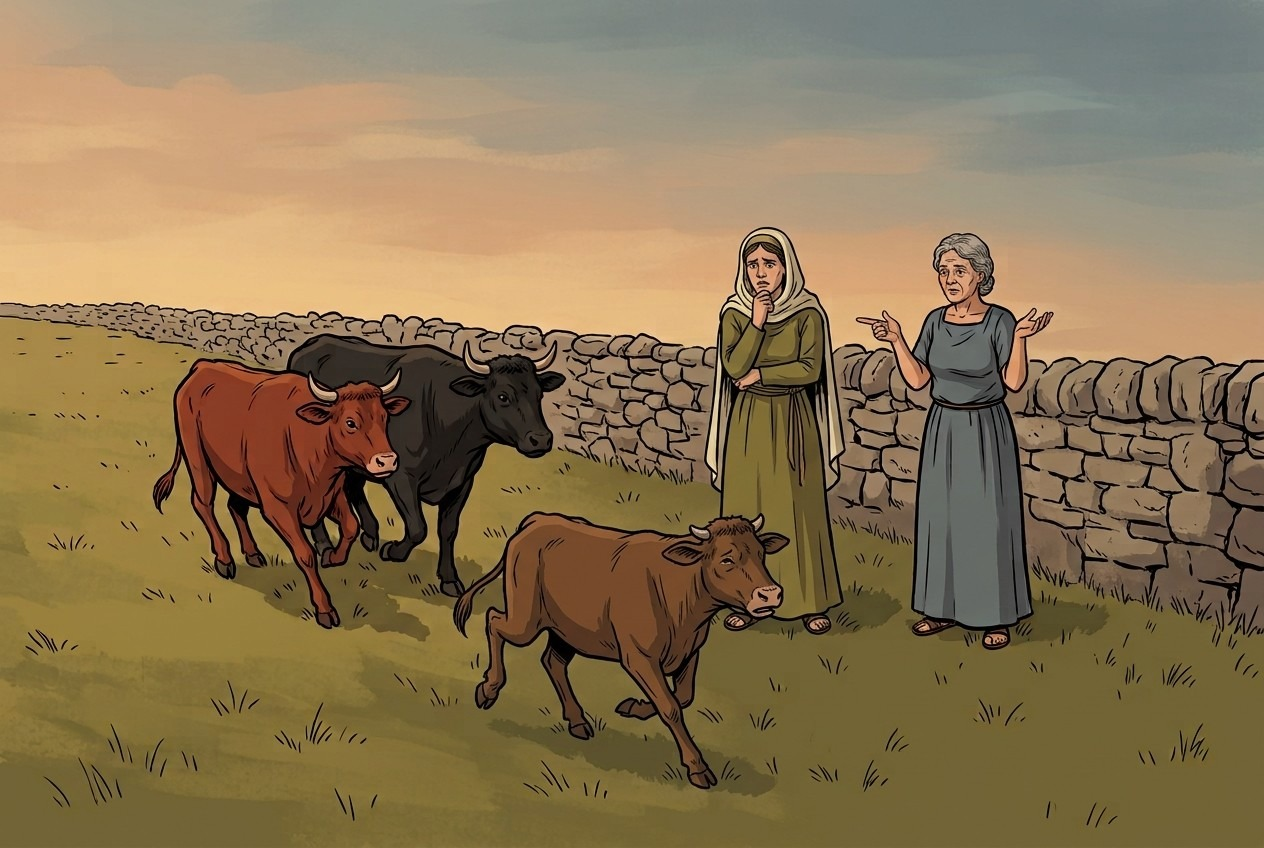
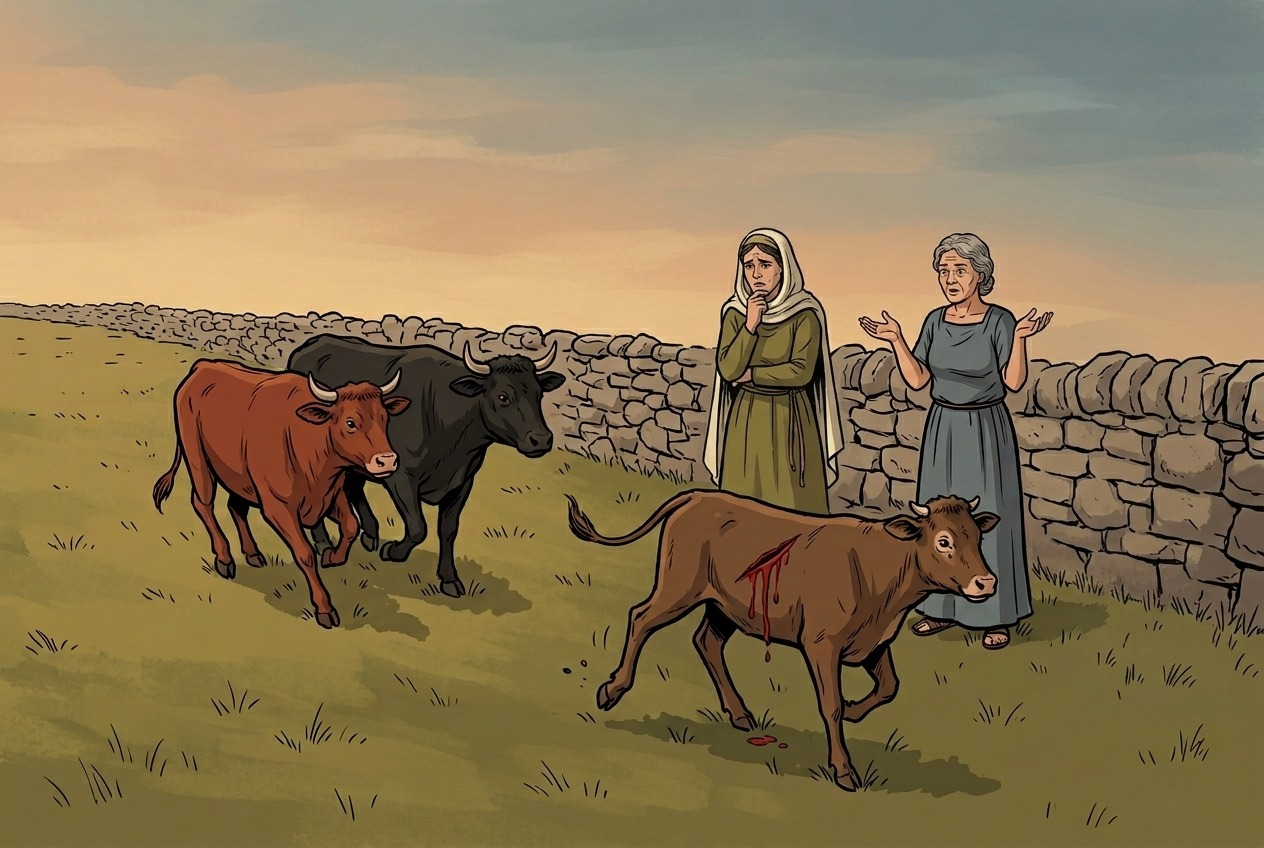
BK 3:11a/b replaced with the gored-ox pictures

Changed region(s): [[0.3394, 0.2453, 0.8022, 0.9505], [0.8022, 0.3679, 0.9565, 0.7358], [0.7405, 0.2759, 0.8022, 0.3679]]

diff --git a/AnyMishnahWeb/site/bava-kamma-3.html b/AnyMishnahWeb/site/bava-kamma-3.html
@@ -107,7 +107,7 @@ html[data-mode=q] .hot{border-color:transparent;background:none;pointer-events:n
 <div class="grid"><div class="panel aids"><h4>Five pairs</h4><ul><li>Embarrassment: his ox caused it, he is exempt; he caused it himself, he is obligated.</li><li>A slave&#x27;s eye or tooth: his ox put it out, he is exempt from freeing the slave; he did it himself, he must free him.</li><li>His father or mother: his ox injured them, he is obligated; he injured them himself, he is exempt.</li><li>A heap of produce on Shabbat: his ox lit it, he is obligated; he lit it himself, he is exempt, because he is liable for his life.</li></ul><h4>Why</h4><ul><li>An ox does not know that it might embarrass someone, so its owner does not pay the embarrassment payment.</li><li>Freeing a slave applies only when the owner himself does the act (Exodus 21:26-27); nor does he owe money, since the slave is his property.</li><li>One who strikes a parent faces the death penalty; a person liable for death and for money receives only the death penalty. Lighting a fire on Shabbat is likewise a capital crime.</li><li>The mishnah is formulaic so that it can be memorised: it is oral Torah.</li></ul><div class="chart"><h4>If his ox did it, and if he did it himself</h4><table><tr><th>The act</th><th>If his ox did it</th><th>If he did it himself</th></tr><tr><td>Embarrassment</td><td>exempt</td><td>obligated</td></tr><tr><td>A slave&#x27;s eye or tooth</td><td>exempt from freeing him</td><td>must free him</td></tr><tr><td>Injury to his father or mother</td><td>obligated</td><td>exempt</td></tr><tr><td>A heap of produce lit on Shabbat</td><td>obligated</td><td>exempt (liable for his life)</td></tr></table></div></div>
 <div class="panel text"><div class="he" lang="he" dir="rtl">יש חייב על מעשה שורו ופטור על מעשה עצמו. פטור על מעשה שורו וחייב על מעשה עצמו. שורו שבייש פטור והוא שבייש חייב. שורו שסימא את עין עבדו והפיל את שינו פטור. והוא שסימא את עין עבדו והפיל את שינו חייב. שורו שחבל באביו ואמו חייב. והוא שחבל באביו ואמו פטור. שורו שהדליק את הגדיש בשבת חייב. והוא שהדליק את הגדיש בשבת פטור. מפני שהוא מתחייב בנפשו: </div><div class="en">There is one who is obligated for the act of his ox and exempt from his own act, and one who is exempt from the act of his ox and obligated on his own act. [If] his ox caused embarrassment [to another person], he is exempt; [If, however] he caused embarrassment [to another person] he is obligated. [If] his ox put out the eye of his slave or knocked out his [slave’s] tooth, he is exempt [from freeing the slave]; [If, however] he put out the eye of his slave or knocked out his tooth, he is obligated to free the slave. [If] his ox injured his father or mother he is obligated; [If, however] he injured his father or mother he is exempt. [If] his ox lit a heap of produce on fire on Shabbat, he is obligated; [If, however] he lit a heap of produce on Shabbat he is exempt, because he is liable for his life.</div></div></div></section><section id="m11"><h2>Mishnah 11: Who has to prove it?</h2><p class="sum">The one who wants payment must bring the proof. If he cannot, the other is exempt.</p>
 <div class="grid"><div class="panel aids"><h4>One ox pursuing another</h4><ul><li>If an ox was pursuing another ox and it was injured, and one says your ox caused it and the other says a rock did: on the one who wishes to exact compensation lies the burden of proof.</li><li>Without proof he cannot collect.</li></ul><h4>Two oxen pursuing a third</h4><ul><li>Two oxen were pursuing a third and each owner says the other&#x27;s ox did it: both are exempt. If both were owned by one man, both are obligated.</li><li>It is clear that one of them caused it but not which, so the owner of the injured ox cannot collect from either; the one owner is liable.</li></ul><h4>Big and small, harmless and dangerous</h4><ul><li>If one was big and one small, or one harmless and one an attested danger, and the owners dispute which caused the injury: on the one who wishes to exact compensation lies the burden of proof.</li><li>The claimant gains by a larger or more dangerous ox having done it: a harmless ox pays no more than its own value, and an attested danger pays full damages.</li></ul><h4>Two injured, two injuring</h4><ul><li>The same rule applies when two oxen were injured by two oxen: the burden of proof is on the plaintiff.</li></ul><h4>The principle</h4><ul><li>The final mishnah teaches an important principle: the burden of proof is on the one who wishes to exact compensation; without positive proof the defendant is found exempt.</li></ul></div>
-<div class="panel text"><div class="he" lang="he" dir="rtl">שור שהיה רודף אחר שור אחר והוזק. זה אומר שורך הזיק. וזה אומר לא כי אלא בסלע לקה. המוציא מחבירו עליו הראיה. היו שנים רודפים אחר אחד. זה אומר שורך הזיק וזה אומר שורך הזיק שניהם פטורין. אם היו שניהן של איש אחד שניהן חייבים. היה אחד גדול ואחד קטן. הניזק אומר גדול הזיק. והמזיק אומר לא כי אלא קטן הזיק. אחד תם ואחד מועד. הניזק אומר מועד הזיק. והמזיק אומר לא כי אלא תם הזיק. המוציא מחברו עליו הראיה. היו הניזוקין שנים אחד גדול ואחד קטן. והמזיקים שנים אחד גדול ואחד קטן. הניזק אומר גדול הזיק את הגדול וקטן את הקטן. ומזיק אומר לא כי אלא קטן את הגדול וגדול את הקטן. אחד תם ואחד מועד. הניזק אומר מועד הזיק את הגדול ותם את הקטן. והמזיק אומר לא כי אלא תם את הגדול ומועד את הקטן. המוציא מחברו עליו הראיה: </div><div class="en">If an ox was pursuing another ox and [the latter ox] was injured: this one claims “Your ox caused the injury, and this one claims “No, it was injured by a rock.” on the one who wishes to exact compensation lies the burden of proof. If two oxen were pursuing a third ox: this one claims “Your ox caused the injury”, and this one claims “Your ox caused the injury”, they are both exempt. However, if they were both owned by one man, they are both obligated. If one was big and was small: the [owner] of injured [ox] says that “The large one caused the injury”, and the [owner] of the injuring [ox] says, “The small one caused the injury”, [or] if one was a harmless ox and one was an attested danger (muad) the [owner] of the injured ox says, “The [ox which is an] attested danger caused the injury, and the owner of the injuring ox says, “The [ox which is] harmless caused the injury”, on the one who wishes to exact compensation lies the burden of proof. If two oxen were injured, one big and one small, and two oxen caused the injury, one big and one small: [the owner] of the injured oxen says, “The big ox injured the big ox and small ox injured the small ox,” and the [owner] of the injuring oxen says, “The small ox injured the big ox and the big ox injured the small ox”; [or] if one was harmless and one was an attested danger: the [owner] of the injured oxen says, “The [ox which is an] attested danger injured the big ox, and the harmless [ox] injured the small ox”, the owner of injuring oxen says, “No rather the harmless [ox] injured the large ox and the [ox which is an] attested danger injured the small ox”, on the one who wishes to exact compensation lies the burden of proof.</div><figure class="pic v" data-aud="y" data-mode="i"><div class="stage"><img src="img/older/clean/bk3-11a.jpg" alt="Two oxen chased a third and it was hurt, and no one knows which one did it: the owners of the chasing oxen are both exempt." loading="lazy"><button class="hot" data-h="0" data-ans="notpay" data-q="1" aria-pressed="false" aria-label="The owner of the red ox" style="left:56.804%;top:24.882%;width:8.070%;height:29.127%"></button><button class="hot" data-h="1" data-ans="notpay" data-q="2" aria-pressed="false" aria-label="The owner of the black ox" style="left:81.646%;top:24.646%;width:9.256%;height:53.302%"></button><img class="ov" data-h="0" src="img/tag-notpay.png" alt="" style="left:60.839%;top:25.118%;width:8.228%;--t:translate(-50%,-100%)"><img class="ov" data-h="1" src="img/tag-notpay.png" alt="" style="left:86.274%;top:24.882%;width:8.228%;--t:translate(-50%,-100%)"><span class="qchip" data-h="0" style="left:56.804%;top:24.882%">1</span><span class="qchip" data-h="1" style="left:81.646%;top:24.646%">2</span></div><div class="qask qonly"><span class="qa"><b>1</b> Two oxen chased a third and it was hurt; no one knows which did it. Does the owner of the red ox pay?</span> <span class="qa"><b>2</b> Does the owner of the black ox pay?</span></div><div class="tray qonly" role="group" aria-label="Badges"><button class="tb" type="button" data-k="pay" aria-label="pays" title="pays"><img src="img/badge-pay.png" alt="" draggable="false"></button><button class="tb" type="button" data-k="notpay" aria-label="does not pay" title="does not pay"><img src="img/badge-notpay.png" alt="" draggable="false"></button><button class="tb" type="button" data-k="keeps" aria-label="keeps it" title="keeps it"><img src="img/badge-keeps.png" alt="" draggable="false"></button></div><div class="qmsg qonly" role="status" aria-live="polite"></div><figcaption><span class="ctext">Two oxen chased a third and it was hurt, and no one knows which one did it: the owners of the chasing oxen are both exempt.</span> <span class="hint">Tap a person to see the ruling.</span> <button class="all" type="button">Show all</button> <span class="qonly qbtns"><button class="qshow" type="button">Show answers</button><button class="qreset" type="button">Try again</button></span><span class="qonly qhint">Drag a badge from the tray onto the picture, or tap a badge and then tap where it belongs.</span> <span class="note">Younger-audience picture not made yet; showing the older-audience one.</span></figcaption></figure><figure class="pic v" data-aud="y" data-mode="s"><img src="img/older/bk3-11a.jpg" alt="Two oxen chased a third and it was hurt, and no one knows which one did it: the owners of the chasing oxen are both exempt." loading="lazy"><figcaption><span class="ctext">Two oxen chased a third and it was hurt, and no one knows which one did it: the owners of the chasing oxen are both exempt.</span> <span class="note">Younger-audience picture not made yet; showing the older-audience one.</span></figcaption></figure><figure class="pic v" data-aud="o" data-mode="i"><div class="stage"><img src="img/older/clean/bk3-11a.jpg" alt="Two oxen chased a third and it was hurt, and no one knows which one did it: the owners of the chasing oxen are both exempt." loading="lazy"><button class="hot" data-h="0" data-ans="notpay" data-q="1" aria-pressed="false" aria-label="The owner of the red ox" style="left:56.804%;top:24.882%;width:8.070%;height:29.127%"></button><button class="hot" data-h="1" data-ans="notpay" data-q="2" aria-pressed="false" aria-label="The owner of the black ox" style="left:81.646%;top:24.646%;width:9.256%;height:53.302%"></button><img class="ov" data-h="0" src="img/tag-notpay.png" alt="" style="left:60.839%;top:25.118%;width:8.228%;--t:translate(-50%,-100%)"><img class="ov" data-h="1" src="img/tag-notpay.png" alt="" style="left:86.274%;top:24.882%;width:8.228%;--t:translate(-50%,-100%)"><span class="qchip" data-h="0" style="left:56.804%;top:24.882%">1</span><span class="qchip" data-h="1" style="left:81.646%;top:24.646%">2</span></div><div class="qask qonly"><span class="qa"><b>1</b> Two oxen chased a third and it was hurt; no one knows which did it. Does the owner of the red ox pay?</span> <span class="qa"><b>2</b> Does the owner of the black ox pay?</span></div><div class="tray qonly" role="group" aria-label="Badges"><button class="tb" type="button" data-k="pay" aria-label="pays" title="pays"><img src="img/badge-pay.png" alt="" draggable="false"></button><button class="tb" type="button" data-k="notpay" aria-label="does not pay" title="does not pay"><img src="img/badge-notpay.png" alt="" draggable="false"></button><button class="tb" type="button" data-k="keeps" aria-label="keeps it" title="keeps it"><img src="img/badge-keeps.png" alt="" draggable="false"></button></div><div class="qmsg qonly" role="status" aria-live="polite"></div><figcaption><span class="ctext">Two oxen chased a third and it was hurt, and no one knows which one did it: the owners of the chasing oxen are both exempt.</span> <span class="hint">Tap a person to see the ruling.</span> <button class="all" type="button">Show all</button> <span class="qonly qbtns"><button class="qshow" type="button">Show answers</button><button class="qreset" type="button">Try again</button></span><span class="qonly qhint">Drag a badge from the tray onto the picture, or tap a badge and then tap where it belongs.</span></figcaption></figure><figure class="pic v" data-aud="o" data-mode="s"><img src="img/older/bk3-11a.jpg" alt="Two oxen chased a third and it was hurt, and no one knows which one did it: the owners of the chasing oxen are both exempt." loading="lazy"><figcaption><span class="ctext">Two oxen chased a third and it was hurt, and no one knows which one did it: the owners of the chasing oxen are both exempt.</span></figcaption></figure><figure class="pic v" data-aud="y" data-mode="i"><div class="stage"><img src="img/older/clean/bk3-11b.jpg" alt="Both chasing oxen belong to one owner, so she is liable (both owners are exempt only when they are two different people)." loading="lazy"><button class="hot" data-h="0" data-ans="pay" data-q="?" aria-pressed="false" aria-label="The owner of both chasing oxen" style="left:55.538%;top:25.708%;width:10.047%;height:52.948%"></button><img class="ov" data-h="0" src="img/tag-pay.png" alt="" style="left:60.562%;top:25.943%;width:8.228%;--t:translate(-50%,-100%)"><span class="qchip" data-h="0" style="left:55.538%;top:25.708%">?</span></div><div class="qask qonly"><span class="qa">Both chasing oxen belong to the woman in green. Does she pay?</span></div><div class="tray qonly" role="group" aria-label="Badges"><button class="tb" type="button" data-k="pay" aria-label="pays" title="pays"><img src="img/badge-pay.png" alt="" draggable="false"></button><button class="tb" type="button" data-k="notpay" aria-label="does not pay" title="does not pay"><img src="img/badge-notpay.png" alt="" draggable="false"></button><button class="tb" type="button" data-k="keeps" aria-label="keeps it" title="keeps it"><img src="img/badge-keeps.png" alt="" draggable="false"></button></div><div class="qmsg qonly" role="status" aria-live="polite"></div><figcaption><span class="ctext">Both chasing oxen belong to one owner, so she is liable (both owners are exempt only when they are two different people).</span> <span class="hint">Tap a person to see the ruling.</span> <button class="all" type="button">Show all</button> <span class="qonly qbtns"><button class="qshow" type="button">Show answers</button><button class="qreset" type="button">Try again</button></span><span class="qonly qhint">Drag a badge from the tray onto the picture, or tap a badge and then tap where it belongs.</span> <span class="note">Younger-audience picture not made yet; showing the older-audience one.</span></figcaption></figure><figure class="pic v" data-aud="y" data-mode="s"><img src="img/older/bk3-11b.jpg" alt="Both chasing oxen belong to one owner, so she is liable (both owners are exempt only when they are two different people)." loading="lazy"><figcaption><span class="ctext">Both chasing oxen belong to one owner, so she is liable (both owners are exempt only when they are two different people).</span> <span class="note">Younger-audience picture not made yet; showing the older-audience one.</span></figcaption></figure><figure class="pic v" data-aud="o" data-mode="i"><div class="stage"><img src="img/older/clean/bk3-11b.jpg" alt="Both chasing oxen belong to one owner, so she is liable (both owners are exempt only when they are two different people)." loading="lazy"><button class="hot" data-h="0" data-ans="pay" data-q="?" aria-pressed="false" aria-label="The owner of both chasing oxen" style="left:55.538%;top:25.708%;width:10.047%;height:52.948%"></button><img class="ov" data-h="0" src="img/tag-pay.png" alt="" style="left:60.562%;top:25.943%;width:8.228%;--t:translate(-50%,-100%)"><span class="qchip" data-h="0" style="left:55.538%;top:25.708%">?</span></div><div class="qask qonly"><span class="qa">Both chasing oxen belong to the woman in green. Does she pay?</span></div><div class="tray qonly" role="group" aria-label="Badges"><button class="tb" type="button" data-k="pay" aria-label="pays" title="pays"><img src="img/badge-pay.png" alt="" draggable="false"></button><button class="tb" type="button" data-k="notpay" aria-label="does not pay" title="does not pay"><img src="img/badge-notpay.png" alt="" draggable="false"></button><button class="tb" type="button" data-k="keeps" aria-label="keeps it" title="keeps it"><img src="img/badge-keeps.png" alt="" draggable="false"></button></div><div class="qmsg qonly" role="status" aria-live="polite"></div><figcaption><span class="ctext">Both chasing oxen belong to one owner, so she is liable (both owners are exempt only when they are two different people).</span> <span class="hint">Tap a person to see the ruling.</span> <button class="all" type="button">Show all</button> <span class="qonly qbtns"><button class="qshow" type="button">Show answers</button><button class="qreset" type="button">Try again</button></span><span class="qonly qhint">Drag a badge from the tray onto the picture, or tap a badge and then tap where it belongs.</span></figcaption></figure><figure class="pic v" data-aud="o" data-mode="s"><img src="img/older/bk3-11b.jpg" alt="Both chasing oxen belong to one owner, so she is liable (both owners are exempt only when they are two different people)." loading="lazy"><figcaption><span class="ctext">Both chasing oxen belong to one owner, so she is liable (both owners are exempt only when they are two different people).</span></figcaption></figure></div></div></section><section id="summary"><h2>Chapter summary</h2><p class="sum">Draft from the mishnah and R. Kulp&#x27;s commentary only (each item carries its mishnah number). Kehati outranks R. Kulp and has not been read yet. Definitions are provisional until AnyDaf&#x27;s master glossary covers them.</p><div class="grid3"><div class="panel aids"><h3>Key principles</h3><ol class="pr"><li>The public domain belongs to everyone: no one may leave objects or dangerous materials there. If someone breaks an object left there he is exempt, but if he is hurt, the owner pays for the injury. <span class="refs"><a class="mref" href="#m1">3:1</a></span></li><li>Pouring water, hiding thorns or glass, or letting a thorn fence fall into the public domain makes one liable for the injury, even if he tried to keep it out of people&#x27;s way. <span class="refs"><a class="mref" href="#m2">3:2</a></span></li><li>What a person puts out in the public domain and damages with, anyone who comes first may take, yet he still pays for the injury it causes. Whoever takes possession of something (turning over dung) must see that it injures no one. <span class="refs"><a class="mref" href="#m3">3:3</a></span></li><li>Stumbling by accident is no excuse: the one who stumbles pays for the injury he causes. <span class="refs"><a class="mref" href="#m4">3:4</a></span></li><li>Everyone has the right to walk, and the right to run, in the public domain. Collisions where both have that right carry no liability; who pays depends on who was in front, a sudden stop, or a warning. <span class="refs"><a class="mref" href="#m5">3:5</a><a class="mref" href="#m6">3:6</a></span></li><li>A livelihood may not damage others: one who splits wood is liable for any injury he causes, whichever domain either is in. <span class="refs"><a class="mref" href="#m7">3:7</a></span></li><li>When two oxen or people hurt each other, the payment is for the greater hurt: half damages for a harmless ox, full damages for an attested danger or a person. <span class="refs"><a class="mref" href="#m8">3:8</a></span></li><li>The same injury can bind the owner of the ox but not the person, and the reverse (embarrassment, a slave&#x27;s eye, parents, fire on Shabbat). A person liable for death and money gets only the death penalty. <span class="refs"><a class="mref" href="#m10">3:10</a></span></li><li>The burden of proof is on the one who wants payment. Without positive proof the defendant is exempt; two oxen with one owner make that owner liable. <span class="refs"><a class="mref" href="#m11">3:11</a></span></li></ol></div><div class="panel aids"><h3>Key terms</h3><dl><dt><b>public domain</b> <span class="he" lang="he" dir="rtl">רשות הרבים</span> <span class="refs"><a class="mref" href="#m1">3:1</a><a class="mref" href="#m2">3:2</a></span></dt><dd>The street and other common ground. The sages considered it to belong to everyone, so no one may place dangerous things in it.</dd><dt><b>harmless ox (tam)</b> <span class="he" lang="he" dir="rtl">תם</span> <span class="refs"><a class="mref" href="#m8">3:8</a></span></dt><dd>An ox accounted innocent, not previously testified against. Its owner pays half damages, from the value of the ox itself, so he never pays more than the ox is worth.</dd><dt><b>attested danger (muad)</b> <span class="he" lang="he" dir="rtl">מועד</span> <span class="refs"><a class="mref" href="#m8">3:8</a></span></dt><dd>An ox that has been testified against. Its owner pays full damages from the best of his land. A human being is always an attested danger.</dd><dt><b>half damages, full damages</b> <span class="he" lang="he" dir="rtl">חצי נזק, נזק שלם</span> <span class="refs"><a class="mref" href="#m8">3:8</a></span></dt><dd>The payment for the harm done: half for a harmless animal, the whole for an attested danger or a person.</dd><dt><b>burden of proof</b> <span class="he" lang="he" dir="rtl"></span> <span class="refs"><a class="mref" href="#m11">3:11</a></span></dt><dd>The duty of the one who wants payment to bring positive proof. Without it the defendant is found exempt.</dd></dl></div><div class="panel aids"><h3>Key debates</h3><div class="debate"><h4>Does intention matter for a jug that breaks in the public domain? <span class="refs"><a class="mref" href="#m1">3:1</a></span></h4><div class="sides"><div><b>View 1</b><p>The first view: he is liable for the injury, with no distinction (Kulp: evidently they hold he is obligated even if it broke accidentally).</p></div><div><b>View 2</b><p>Rabbi Judah: only if he broke it with intention; without intention he is not liable.</p></div></div></div><div class="debate"><h4>Does Rabban Shimon ben Gamaliel disagree with the first view? <span class="refs"><a class="mref" href="#m3">3:3</a></span></h4><div class="sides"><div><b>View 1</b><p>The first view: the one who put out the straw is liable for injuries, and whoever comes first may take it.</p></div><div><b>View 2</b><p>Rabban Shimon ben Gamaliel: whoever leaves disruptive things in the public domain must make restitution if they cause damage, and whoever comes first may take them. Kulp asks whether there is a disagreement at all.</p></div></div></div><div class="debate"><h4>What does a harmless ox owe for hurting a man? <span class="refs"><a class="mref" href="#m8">3:8</a></span></h4><div class="sides"><div><b>View 1</b><p>The first view: the ox&#x27;s owner pays only half damages.</p></div><div><b>View 2</b><p>Rabbi Akiva: even a harmless ox that hurt a man pays full damages for the greater hurt.</p></div></div></div><div class="debate"><h4>How is Exodus 21:35 applied? <span class="refs"><a class="mref" href="#m9">3:9</a></span></h4><div class="sides"><div><b>View 1</b><p>Rabbi Meir: with two oxen worth 200 and a worthless carcass, sell the live ox and divide its price.</p></div><div><b>View 2</b><p>Rabbi Judah: that is the halakhah, but it fulfils only half the verse. The verse speaks of selling the live ox and also dividing the dead animal, as when the carcass is worth 50.</p></div></div></div></div></div></section></main><footer>Hebrew: Mishnah, ed. Romm, Vilna 1913 (public domain). English translation and commentary: Mishnah Yomit by R. Joshua Kulp, via Sefaria, licensed CC-BY. Outlines, charts and diagrams drafted by Claude (Anthropic) from the mishnah and R. Kulp's text and under review. The illustrations are AI-generated; the round symbols are interim. Prototype for discussion, not for distribution.</footer><script>
+<div class="panel text"><div class="he" lang="he" dir="rtl">שור שהיה רודף אחר שור אחר והוזק. זה אומר שורך הזיק. וזה אומר לא כי אלא בסלע לקה. המוציא מחבירו עליו הראיה. היו שנים רודפים אחר אחד. זה אומר שורך הזיק וזה אומר שורך הזיק שניהם פטורין. אם היו שניהן של איש אחד שניהן חייבים. היה אחד גדול ואחד קטן. הניזק אומר גדול הזיק. והמזיק אומר לא כי אלא קטן הזיק. אחד תם ואחד מועד. הניזק אומר מועד הזיק. והמזיק אומר לא כי אלא תם הזיק. המוציא מחברו עליו הראיה. היו הניזוקין שנים אחד גדול ואחד קטן. והמזיקים שנים אחד גדול ואחד קטן. הניזק אומר גדול הזיק את הגדול וקטן את הקטן. ומזיק אומר לא כי אלא קטן את הגדול וגדול את הקטן. אחד תם ואחד מועד. הניזק אומר מועד הזיק את הגדול ותם את הקטן. והמזיק אומר לא כי אלא תם את הגדול ומועד את הקטן. המוציא מחברו עליו הראיה: </div><div class="en">If an ox was pursuing another ox and [the latter ox] was injured: this one claims “Your ox caused the injury, and this one claims “No, it was injured by a rock.” on the one who wishes to exact compensation lies the burden of proof. If two oxen were pursuing a third ox: this one claims “Your ox caused the injury”, and this one claims “Your ox caused the injury”, they are both exempt. However, if they were both owned by one man, they are both obligated. If one was big and was small: the [owner] of injured [ox] says that “The large one caused the injury”, and the [owner] of the injuring [ox] says, “The small one caused the injury”, [or] if one was a harmless ox and one was an attested danger (muad) the [owner] of the injured ox says, “The [ox which is an] attested danger caused the injury, and the owner of the injuring ox says, “The [ox which is] harmless caused the injury”, on the one who wishes to exact compensation lies the burden of proof. If two oxen were injured, one big and one small, and two oxen caused the injury, one big and one small: [the owner] of the injured oxen says, “The big ox injured the big ox and small ox injured the small ox,” and the [owner] of the injuring oxen says, “The small ox injured the big ox and the big ox injured the small ox”; [or] if one was harmless and one was an attested danger: the [owner] of the injured oxen says, “The [ox which is an] attested danger injured the big ox, and the harmless [ox] injured the small ox”, the owner of injuring oxen says, “No rather the harmless [ox] injured the large ox and the [ox which is an] attested danger injured the small ox”, on the one who wishes to exact compensation lies the burden of proof.</div><figure class="pic v" data-aud="y" data-mode="i"><div class="stage"><img src="img/older/clean/bk3-11a.jpg" alt="Two oxen chased a third and it was hurt, and no one knows which one did it: the owners of the chasing oxen are both exempt." loading="lazy"><button class="hot" data-h="0" data-ans="notpay" data-q="1" aria-pressed="false" aria-label="The owner of the red ox" style="left:57.358%;top:25.825%;width:6.171%;height:21.698%"></button><button class="hot" data-h="1" data-ans="notpay" data-q="2" aria-pressed="false" aria-label="The owner of the black ox" style="left:82.199%;top:24.764%;width:8.386%;height:29.835%"></button><img class="ov" data-h="0" src="img/tag-notpay.png" alt="" style="left:60.443%;top:26.061%;width:8.228%;--t:translate(-50%,-100%)"><img class="ov" data-h="1" src="img/tag-notpay.png" alt="" style="left:86.392%;top:25.000%;width:8.228%;--t:translate(-50%,-100%)"><span class="qchip" data-h="0" style="left:57.358%;top:25.825%">1</span><span class="qchip" data-h="1" style="left:82.199%;top:24.764%">2</span></div><div class="qask qonly"><span class="qa"><b>1</b> Two oxen chased a third and it was hurt; no one knows which did it. Does the owner of the red ox pay?</span> <span class="qa"><b>2</b> Does the owner of the black ox pay?</span></div><div class="tray qonly" role="group" aria-label="Badges"><button class="tb" type="button" data-k="pay" aria-label="pays" title="pays"><img src="img/badge-pay.png" alt="" draggable="false"></button><button class="tb" type="button" data-k="notpay" aria-label="does not pay" title="does not pay"><img src="img/badge-notpay.png" alt="" draggable="false"></button><button class="tb" type="button" data-k="keeps" aria-label="keeps it" title="keeps it"><img src="img/badge-keeps.png" alt="" draggable="false"></button></div><div class="qmsg qonly" role="status" aria-live="polite"></div><figcaption><span class="ctext">Two oxen chased a third and it was hurt, and no one knows which one did it: the owners of the chasing oxen are both exempt.</span> <span class="hint">Tap a person to see the ruling.</span> <button class="all" type="button">Show all</button> <span class="qonly qbtns"><button class="qshow" type="button">Show answers</button><button class="qreset" type="button">Try again</button></span><span class="qonly qhint">Drag a badge from the tray onto the picture, or tap a badge and then tap where it belongs.</span> <span class="note">Younger-audience picture not made yet; showing the older-audience one.</span></figcaption></figure><figure class="pic v" data-aud="y" data-mode="s"><img src="img/older/bk3-11a.jpg" alt="Two oxen chased a third and it was hurt, and no one knows which one did it: the owners of the chasing oxen are both exempt." loading="lazy"><figcaption><span class="ctext">Two oxen chased a third and it was hurt, and no one knows which one did it: the owners of the chasing oxen are both exempt.</span> <span class="note">Younger-audience picture not made yet; showing the older-audience one.</span></figcaption></figure><figure class="pic v" data-aud="o" data-mode="i"><div class="stage"><img src="img/older/clean/bk3-11a.jpg" alt="Two oxen chased a third and it was hurt, and no one knows which one did it: the owners of the chasing oxen are both exempt." loading="lazy"><button class="hot" data-h="0" data-ans="notpay" data-q="1" aria-pressed="false" aria-label="The owner of the red ox" style="left:57.358%;top:25.825%;width:6.171%;height:21.698%"></button><button class="hot" data-h="1" data-ans="notpay" data-q="2" aria-pressed="false" aria-label="The owner of the black ox" style="left:82.199%;top:24.764%;width:8.386%;height:29.835%"></button><img class="ov" data-h="0" src="img/tag-notpay.png" alt="" style="left:60.443%;top:26.061%;width:8.228%;--t:translate(-50%,-100%)"><img class="ov" data-h="1" src="img/tag-notpay.png" alt="" style="left:86.392%;top:25.000%;width:8.228%;--t:translate(-50%,-100%)"><span class="qchip" data-h="0" style="left:57.358%;top:25.825%">1</span><span class="qchip" data-h="1" style="left:82.199%;top:24.764%">2</span></div><div class="qask qonly"><span class="qa"><b>1</b> Two oxen chased a third and it was hurt; no one knows which did it. Does the owner of the red ox pay?</span> <span class="qa"><b>2</b> Does the owner of the black ox pay?</span></div><div class="tray qonly" role="group" aria-label="Badges"><button class="tb" type="button" data-k="pay" aria-label="pays" title="pays"><img src="img/badge-pay.png" alt="" draggable="false"></button><button class="tb" type="button" data-k="notpay" aria-label="does not pay" title="does not pay"><img src="img/badge-notpay.png" alt="" draggable="false"></button><button class="tb" type="button" data-k="keeps" aria-label="keeps it" title="keeps it"><img src="img/badge-keeps.png" alt="" draggable="false"></button></div><div class="qmsg qonly" role="status" aria-live="polite"></div><figcaption><span class="ctext">Two oxen chased a third and it was hurt, and no one knows which one did it: the owners of the chasing oxen are both exempt.</span> <span class="hint">Tap a person to see the ruling.</span> <button class="all" type="button">Show all</button> <span class="qonly qbtns"><button class="qshow" type="button">Show answers</button><button class="qreset" type="button">Try again</button></span><span class="qonly qhint">Drag a badge from the tray onto the picture, or tap a badge and then tap where it belongs.</span></figcaption></figure><figure class="pic v" data-aud="o" data-mode="s"><img src="img/older/bk3-11a.jpg" alt="Two oxen chased a third and it was hurt, and no one knows which one did it: the owners of the chasing oxen are both exempt." loading="lazy"><figcaption><span class="ctext">Two oxen chased a third and it was hurt, and no one knows which one did it: the owners of the chasing oxen are both exempt.</span></figcaption></figure><figure class="pic v" data-aud="y" data-mode="i"><div class="stage"><img src="img/older/clean/bk3-11b.jpg" alt="Both chasing oxen belong to one owner, so she is liable (both owners are exempt only when they are two different people)." loading="lazy"><button class="hot" data-h="0" data-ans="pay" data-q="?" aria-pressed="false" aria-label="The owner of both chasing oxen" style="left:56.725%;top:25.825%;width:8.544%;height:51.061%"></button><img class="ov" data-h="0" src="img/tag-pay.png" alt="" style="left:60.997%;top:26.061%;width:8.228%;--t:translate(-50%,-100%)"><span class="qchip" data-h="0" style="left:56.725%;top:25.825%">?</span></div><div class="qask qonly"><span class="qa">Both chasing oxen belong to the woman in green. Does she pay?</span></div><div class="tray qonly" role="group" aria-label="Badges"><button class="tb" type="button" data-k="pay" aria-label="pays" title="pays"><img src="img/badge-pay.png" alt="" draggable="false"></button><button class="tb" type="button" data-k="notpay" aria-label="does not pay" title="does not pay"><img src="img/badge-notpay.png" alt="" draggable="false"></button><button class="tb" type="button" data-k="keeps" aria-label="keeps it" title="keeps it"><img src="img/badge-keeps.png" alt="" draggable="false"></button></div><div class="qmsg qonly" role="status" aria-live="polite"></div><figcaption><span class="ctext">Both chasing oxen belong to one owner, so she is liable (both owners are exempt only when they are two different people).</span> <span class="hint">Tap a person to see the ruling.</span> <button class="all" type="button">Show all</button> <span class="qonly qbtns"><button class="qshow" type="button">Show answers</button><button class="qreset" type="button">Try again</button></span><span class="qonly qhint">Drag a badge from the tray onto the picture, or tap a badge and then tap where it belongs.</span> <span class="note">Younger-audience picture not made yet; showing the older-audience one.</span></figcaption></figure><figure class="pic v" data-aud="y" data-mode="s"><img src="img/older/bk3-11b.jpg" alt="Both chasing oxen belong to one owner, so she is liable (both owners are exempt only when they are two different people)." loading="lazy"><figcaption><span class="ctext">Both chasing oxen belong to one owner, so she is liable (both owners are exempt only when they are two different people).</span> <span class="note">Younger-audience picture not made yet; showing the older-audience one.</span></figcaption></figure><figure class="pic v" data-aud="o" data-mode="i"><div class="stage"><img src="img/older/clean/bk3-11b.jpg" alt="Both chasing oxen belong to one owner, so she is liable (both owners are exempt only when they are two different people)." loading="lazy"><button class="hot" data-h="0" data-ans="pay" data-q="?" aria-pressed="false" aria-label="The owner of both chasing oxen" style="left:56.725%;top:25.825%;width:8.544%;height:51.061%"></button><img class="ov" data-h="0" src="img/tag-pay.png" alt="" style="left:60.997%;top:26.061%;width:8.228%;--t:translate(-50%,-100%)"><span class="qchip" data-h="0" style="left:56.725%;top:25.825%">?</span></div><div class="qask qonly"><span class="qa">Both chasing oxen belong to the woman in green. Does she pay?</span></div><div class="tray qonly" role="group" aria-label="Badges"><button class="tb" type="button" data-k="pay" aria-label="pays" title="pays"><img src="img/badge-pay.png" alt="" draggable="false"></button><button class="tb" type="button" data-k="notpay" aria-label="does not pay" title="does not pay"><img src="img/badge-notpay.png" alt="" draggable="false"></button><button class="tb" type="button" data-k="keeps" aria-label="keeps it" title="keeps it"><img src="img/badge-keeps.png" alt="" draggable="false"></button></div><div class="qmsg qonly" role="status" aria-live="polite"></div><figcaption><span class="ctext">Both chasing oxen belong to one owner, so she is liable (both owners are exempt only when they are two different people).</span> <span class="hint">Tap a person to see the ruling.</span> <button class="all" type="button">Show all</button> <span class="qonly qbtns"><button class="qshow" type="button">Show answers</button><button class="qreset" type="button">Try again</button></span><span class="qonly qhint">Drag a badge from the tray onto the picture, or tap a badge and then tap where it belongs.</span></figcaption></figure><figure class="pic v" data-aud="o" data-mode="s"><img src="img/older/bk3-11b.jpg" alt="Both chasing oxen belong to one owner, so she is liable (both owners are exempt only when they are two different people)." loading="lazy"><figcaption><span class="ctext">Both chasing oxen belong to one owner, so she is liable (both owners are exempt only when they are two different people).</span></figcaption></figure></div></div></section><section id="summary"><h2>Chapter summary</h2><p class="sum">Draft from the mishnah and R. Kulp&#x27;s commentary only (each item carries its mishnah number). Kehati outranks R. Kulp and has not been read yet. Definitions are provisional until AnyDaf&#x27;s master glossary covers them.</p><div class="grid3"><div class="panel aids"><h3>Key principles</h3><ol class="pr"><li>The public domain belongs to everyone: no one may leave objects or dangerous materials there. If someone breaks an object left there he is exempt, but if he is hurt, the owner pays for the injury. <span class="refs"><a class="mref" href="#m1">3:1</a></span></li><li>Pouring water, hiding thorns or glass, or letting a thorn fence fall into the public domain makes one liable for the injury, even if he tried to keep it out of people&#x27;s way. <span class="refs"><a class="mref" href="#m2">3:2</a></span></li><li>What a person puts out in the public domain and damages with, anyone who comes first may take, yet he still pays for the injury it causes. Whoever takes possession of something (turning over dung) must see that it injures no one. <span class="refs"><a class="mref" href="#m3">3:3</a></span></li><li>Stumbling by accident is no excuse: the one who stumbles pays for the injury he causes. <span class="refs"><a class="mref" href="#m4">3:4</a></span></li><li>Everyone has the right to walk, and the right to run, in the public domain. Collisions where both have that right carry no liability; who pays depends on who was in front, a sudden stop, or a warning. <span class="refs"><a class="mref" href="#m5">3:5</a><a class="mref" href="#m6">3:6</a></span></li><li>A livelihood may not damage others: one who splits wood is liable for any injury he causes, whichever domain either is in. <span class="refs"><a class="mref" href="#m7">3:7</a></span></li><li>When two oxen or people hurt each other, the payment is for the greater hurt: half damages for a harmless ox, full damages for an attested danger or a person. <span class="refs"><a class="mref" href="#m8">3:8</a></span></li><li>The same injury can bind the owner of the ox but not the person, and the reverse (embarrassment, a slave&#x27;s eye, parents, fire on Shabbat). A person liable for death and money gets only the death penalty. <span class="refs"><a class="mref" href="#m10">3:10</a></span></li><li>The burden of proof is on the one who wants payment. Without positive proof the defendant is exempt; two oxen with one owner make that owner liable. <span class="refs"><a class="mref" href="#m11">3:11</a></span></li></ol></div><div class="panel aids"><h3>Key terms</h3><dl><dt><b>public domain</b> <span class="he" lang="he" dir="rtl">רשות הרבים</span> <span class="refs"><a class="mref" href="#m1">3:1</a><a class="mref" href="#m2">3:2</a></span></dt><dd>The street and other common ground. The sages considered it to belong to everyone, so no one may place dangerous things in it.</dd><dt><b>harmless ox (tam)</b> <span class="he" lang="he" dir="rtl">תם</span> <span class="refs"><a class="mref" href="#m8">3:8</a></span></dt><dd>An ox accounted innocent, not previously testified against. Its owner pays half damages, from the value of the ox itself, so he never pays more than the ox is worth.</dd><dt><b>attested danger (muad)</b> <span class="he" lang="he" dir="rtl">מועד</span> <span class="refs"><a class="mref" href="#m8">3:8</a></span></dt><dd>An ox that has been testified against. Its owner pays full damages from the best of his land. A human being is always an attested danger.</dd><dt><b>half damages, full damages</b> <span class="he" lang="he" dir="rtl">חצי נזק, נזק שלם</span> <span class="refs"><a class="mref" href="#m8">3:8</a></span></dt><dd>The payment for the harm done: half for a harmless animal, the whole for an attested danger or a person.</dd><dt><b>burden of proof</b> <span class="he" lang="he" dir="rtl"></span> <span class="refs"><a class="mref" href="#m11">3:11</a></span></dt><dd>The duty of the one who wants payment to bring positive proof. Without it the defendant is found exempt.</dd></dl></div><div class="panel aids"><h3>Key debates</h3><div class="debate"><h4>Does intention matter for a jug that breaks in the public domain? <span class="refs"><a class="mref" href="#m1">3:1</a></span></h4><div class="sides"><div><b>View 1</b><p>The first view: he is liable for the injury, with no distinction (Kulp: evidently they hold he is obligated even if it broke accidentally).</p></div><div><b>View 2</b><p>Rabbi Judah: only if he broke it with intention; without intention he is not liable.</p></div></div></div><div class="debate"><h4>Does Rabban Shimon ben Gamaliel disagree with the first view? <span class="refs"><a class="mref" href="#m3">3:3</a></span></h4><div class="sides"><div><b>View 1</b><p>The first view: the one who put out the straw is liable for injuries, and whoever comes first may take it.</p></div><div><b>View 2</b><p>Rabban Shimon ben Gamaliel: whoever leaves disruptive things in the public domain must make restitution if they cause damage, and whoever comes first may take them. Kulp asks whether there is a disagreement at all.</p></div></div></div><div class="debate"><h4>What does a harmless ox owe for hurting a man? <span class="refs"><a class="mref" href="#m8">3:8</a></span></h4><div class="sides"><div><b>View 1</b><p>The first view: the ox&#x27;s owner pays only half damages.</p></div><div><b>View 2</b><p>Rabbi Akiva: even a harmless ox that hurt a man pays full damages for the greater hurt.</p></div></div></div><div class="debate"><h4>How is Exodus 21:35 applied? <span class="refs"><a class="mref" href="#m9">3:9</a></span></h4><div class="sides"><div><b>View 1</b><p>Rabbi Meir: with two oxen worth 200 and a worthless carcass, sell the live ox and divide its price.</p></div><div><b>View 2</b><p>Rabbi Judah: that is the halakhah, but it fulfils only half the verse. The verse speaks of selling the live ox and also dividing the dead animal, as when the carcass is worth 50.</p></div></div></div></div></div></section></main><footer>Hebrew: Mishnah, ed. Romm, Vilna 1913 (public domain). English translation and commentary: Mishnah Yomit by R. Joshua Kulp, via Sefaria, licensed CC-BY. Outlines, charts and diagrams drafted by Claude (Anthropic) from the mishnah and R. Kulp's text and under review. The illustrations are AI-generated; the round symbols are interim. Prototype for discussion, not for distribution.</footer><script>
 (function(){
 var root=document.documentElement, sel=null;
 function $$(q,r){return [].slice.call((r||document).querySelectorAll(q))}
